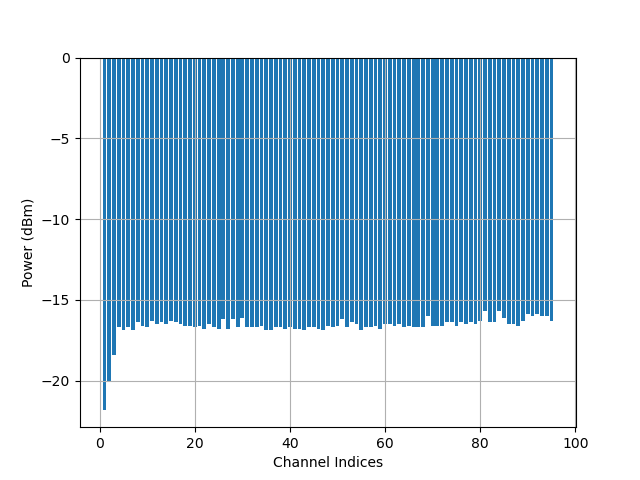
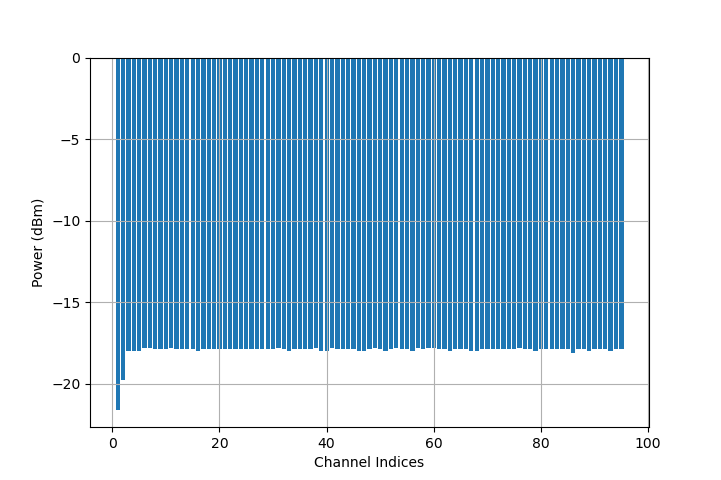
change md file

diff --git a/codes/examples.py b/codes/examples.py
@@ -13,7 +13,7 @@ def run_examples(option):
         # get from website introduction or README / 
         edfaType,gain,channelType,roadmName = "preamp","18dB","fix","rdm1-co1"
         # edfaType,gain,channelType,roadmName,subChannelName,spectrumName
-        subChannelName,spectrumName = "fully_loaded_channel_wdm","roadm_flatten_preamp_input_power_spectra"
+        subChannelName,spectrumName = "fully_loaded_channel_wdm","roadm_dut_preamp_input_power_spectra"
         plot_json_one_element(edfaType,gain,channelType,roadmName,subChannelName,spectrumName)
 
     elif option == 3:

diff --git a/README.md b/README.md
@@ -1,18 +1,33 @@
 # COSMOS EDFA Dataset
 
-COSMOS EDFA Dataset consists of the gain spectrum measurements using the built-in photodiodes (PDs) and optical channel monitors (OCMs) for 16 EDFAs within 8 commercial grade Lumentum ROADM-20 units deployed in the PAWR COSMOS testbed. The dataset includes measurements collected from 8 booster EDFAs, each with 3 gain settings, and 8 pre-amplifier EDFAs, each with 5 gain settings. For each EDFA at a given gain setting, 3,168 gain spectrum measurements are collected with a set of diverse channel loading configurations and varying input power levels. 
+COSMOS _Erbium-Doped Fiber Amplifier_ (_EDFA_) Dataset consists of the gain spectrum measurements using the built-in photodiodes (PDs) and optical channel monitors (OCMs) for 16 EDFAs within 8 commercial grade Lumentum ROADM-20 units deployed in the PAWR COSMOS testbed. The dataset includes measurements collected from 8 booster EDFAs, each with 3 gain settings, and 8 pre-amplifier EDFAs, each with 5 gain settings. For each EDFA at a given gain setting, 3,168 gain spectrum measurements are collected with a set of diverse channel loading configurations and varying input power levels. 
+
+## Terms explanations
+- Lumentum: 
+- EDFA
+- ROADM
+- WSS
+- Calient space switch
+- 
+- preamp:
+- DUT
+- MUX/DEMUX
+- C-band
+- OCM/PD
+- Wavelength channel
+- JSON
 
 # Measurement pipeline
 ![Measurement pipeline!](./misc/md_support_materials/figures/measurement_setup.png)
 The figure shows the block diagram of the block diagram of the Lumentum ROADM-20 unit and the measurement setup of a device under test (DUT) EDFA. Each ROADM unit consists of one MUX wavelength selective switch (WSS), one DEMUX  WSS, one booster EDFA, and one pre-amplifier EDFA, and is equipped with total power and channel power monitoring capabilities using the built-in PDs and OCMs with a power measurement resolution of 0.01 dB and 0.1 dB, respectively.  We use a comb source to generate a set of 95×50 GHz WDM channels in the C-band.
 
-With a DUT booster EDFA, the output of the comb source is connected to an add port of the MUX WSS, which applies the channel loading configuration, adjusts the power level in each loaded channel, and generates a flat input power spectrum at the DUT EDFA. With a DUT pre-amplifier EDFA, the output of the comb source is first connected to the pre-amplifier EDFA and DEMUX WSS of the auxiliary ROADM, whose DEMUX WSS applies the channel loading configuration, adjusts the power level in each loaded channel, and generates a flat output power spectrum that is transmitted to the input of the DUT pre-amplifier EDFA. The output of the DUT EDFA is terminated.
+With a DUT booster EDF0A, the output of the comb source is connected to an add port of the MUX WSS, which applies the channel loading configuration, adjusts the power level in each loaded channel, and generates a flat input power spectrum at the DUT EDFA. With a DUT pre-amplifier EDFA, the output of the comb source is first connected to the pre-amplifier EDFA and DEMUX WSS of the auxiliary ROADM, whose DEMUX WSS applies the channel loading configuration, adjusts the power level in each loaded channel, and generates a flat output power spectrum that is transmitted to the input of the DUT pre-amplifier EDFA. The output of the DUT EDFA is terminated.
 
 The wavelength dependent gain spectrum of each EDFA, denoted by $g(\lambda_i)$, can be characterized by its input power spectrum, $S_{\textrm{in}}(\lambda_i)$, and output power spectrum, $S_{\textrm{out}}(\lambda_i)$, i.e., $g(\lambda_i) = S_{\textrm{out}}(\lambda_i)-S_{\textrm{in}}(\lambda_i), \forall i = 1,2,\dots,95$, where $\lambda_1 = 1529.16$ nm (196.050 THz) and $\lambda_{95} = 1566.72$ nm (191.350 THz).
 
 # Channel Loading Configurations
-
-For each EDFA, $g(\lambda_i)$ can vary significantly with different channel loading configurations. However, it is impossible to measure all $2^{95}$ configurations with 95$\times${50}\thinspace{GHz} channels where each channel can be switched ON/OFF. To address this challenge, we carefully design 5 sets of diverse channel loading configurations and using four *JSON* files to store the measurement results of the collected data:
+![Channel loading!](./misc/md_support_materials/figures/channel_loading.png)
+For each EDFA, $g(\lambda_i)$ can vary significantly with different channel loading configurations. However, it is impossible to measure all $2^{95}$ configurations with 95 $\times$ 50 GHz channels where each channel can be switched ON/OFF. To address this challenge, we carefully design 5 sets of diverse channel loading configurations and using four *JSON* files to store the measurement results of the collected data:
 * **Fixed Baseline** includes the fully loaded (WDM) channel configuration ($n=95$), 4 half loaded (lower/upper/even/odd) channel configurations ($n \in \{47,48\}$), and 7 selected single/double (adjacent) channel configurations. These channel loading stored in the *fix* dataset folder together with *Fixed Goalpost* mentioned below.
 * **Fixed Goalpost** focuses on two sets of consecutive channels located in 3 channel groups (with short/medium/long wavelength), and includes 15 balanced and 12 imbalanced goalpost channel configurations with $n \in \{2,4,8,16,32\}$ and $n \in \{9,18\}$, respectively. These channel loading stored in the *fix* dataset folder together with *Fixed Baseline*.
 * **Fixed Extra** includes the complete set of 95 single and 94 double (adjacent) channel loading configurations. These channel loading stored in the *extraLow* dataset folder.
@@ -69,6 +84,9 @@ The whole dataset folder structure is shown as following:
  ┃ ┣ 📂measurement_config  
  ┃ ┃ ┣ 📜lumentum_fixed_channel_config.json  
  ┃ ┃ ┗ ...
+ ┃ ┣ 📂md_support_materials
+ ┃ ┣ 📂ML_features
+ ┃ ┗ 📂figures
  ┗ 📜README.md
 ```
 In the `code` folder, we provide examples for users to explore the collected data. 
@@ -79,13 +97,7 @@ In the `misc` folder, we put related all other related files there. For example,
 
 
 ## Json File Structure
-Each *JSON* file records one set of channel loading conditions with measurement number varies from 550 to 1100. In one *JSON* file, there are `measurement_setup` and `measurement_data`, where  `measurement_setup` structure is same for all files but `measurement_data` are slightly different for bExport a file
-
-
-
-## Booster and pre-amplifier EDFA
-
- Pre-amplifier EDFA and for fix or random channel loading. We first show the structures of `measurement_setup`, and then go through `measurement_data` the booster *JSON* files and then show the one for pre-amplifier. 
+Each *JSON* file records one set of channel loading conditions with measurement number varies from 550 to 1100. In one *JSON* file, there are `measurement_setup` and `measurement_data`, where  `measurement_setup` structure is same for all files but `measurement_data` are slightly different for booster and pre-amplifier EDFA. We first show the structures of `measurement_setup`, and then go through `measurement_data` the booster *JSON* files and then show the one for pre-amplifier. 
 ## measurement_setup
 ```json
 "measurement_setup": {
@@ -108,9 +120,7 @@ Each *JSON* file records one set of channel loading conditions with measurement 
     ]
 },
 ```
-In the measurement setup, we record the date, ROADM device name, EDFA type (booster or pre-amplifier). There are two types of synchronization and they can complement each other:
-
-- The workspace synchronization will sync all your files, folders and setc. Default attenuation in dB scale is assigned to the WSS before tings automatically. This will allow you to fetch your workspace on any other device-under-test (DUT) EDFA. We also record the wavelength channels we used. For example, from the file the first channel frequency is from `191325.0 GHz to 191375.0 GHz`, and the last would from `196025.0 GHz to 196075.0 GHz`. 
+In the measurement setup, we record the date, ROADM device name, EDFA type (booster or pre-amplifier). Default attenuation in dB scale is assigned to the WSS before device-under-test (DUT) EDFA. We also record the wavelength channels we used. For example, from the file the first channel frequency is from `191325.0 GHz to 191375.0 GHz`, and the last would from `196025.0 GHz to 196075.0 GHz`. 
 
 
 ## measurement_data
@@ -124,19 +134,78 @@ In the measurement setup, we record the date, ROADM device name, EDFA type (boos
             "repeat_index": 0, # start from 0 for booster
             "calient_input_power_comb_source": float(dBm),
             "calient_input_power_roadm_dut_edfa": float(dBm),
-            "roadm_dut_edfa_info": {...},
+            "roadm_dut_edfa_info": { 
+	            "control_mode": "constant-gain",
+	            "target_gain": 18.0,
+	            "target_gain_tilt": 0.0,
+	            "input_power": -0.2, 
+	            "output_power": 17.82,
+	            ,...,},
             "roadm_dut_line_port_info": {...},
             "roadm_dut_wss_port_info": {...},
             "roadm_dut_wss_num_active_channel": 95,
-            "roadm_dut_wss_active_channel_index": [...],
-            "roadm_dut_wss_attenuation": {...},
-            "roadm_dut_wss_input_power_spectra": {...},
-            "roadm_dut_wss_output_power_spectra": {...},
-            "roadm_dut_booster_output": {...}
+            "roadm_dut_wss_active_channel_index": 
+		        [1,2,...,95],
+            "roadm_dut_wss_attenuation": {
+	            "1":float(dB),
+	            ...,
+	            "95":float(dB)},
+		    "roadm_dut_wss_input_power_spectra":{
+			    "1":float(dBm),
+			    ...,
+			    "95":float(dBm)},
+            "roadm_dut_wss_output_power_spectra": {
+			    "1":float(dBm),
+			    ...,
+			    "95":float(dBm)},
+            "roadm_dut_booster_output": {
+			    "1":float(dBm),
+			    ...,
+			    "95":float(dBm)},
         },...,
     ]
 ```
-Better to visualize where the data is ....
+We put some of the important keys in the diagram:
+![booster_diagram!](./misc/md_support_materials/figures/booster_diagram.png)
+#### Keys directly related to wavelength gain
+- `roadm_dut_wss_num_active_channel`: total number of channels that are opened.
+- `roadm_dut_wss_active_channel_index`: a list contains integer number from 1 to 95 which indicates the open channel index. 
+- `roadm_dut_wss_attenuation`: a dictionary with keys (wavelength channel index) and values (additional attenuation). E.g., if the additional channel the 2.0 dB for channel 1, the actual attenuation applied on channel 1 is 2.0 dB + default attenuation 4.0 dB.
+- `roadm_dut_wss_output_power_spectra`: input spectrum before the DUT booster EDFA. *Note*: power spectrum will include all loaded and unloaded channels.
+- `roadm_dut_edfa_info:target_gain`: the gain setting value for DUT EDFA.
+- `roadm_dut_booster_output`: output spectrum after the DUT booster EDFA. *Note*: power spectrum will include all loaded and unloaded channels.
+
+#### Other keys in booster *JSON* file
+ - `open_channel_type`: name of different [channel loading configuration](#Channel-Loading-Configurations) for different *JSON* fieles.
+	- Fix channel loading
+		-  `fully_loaded_channel_wdm`: all 95 channels are loaded
+		- `half_loaded_channel_odd_index`: all odd index channels are loaded
+		- `half_loaded_channel_even_index`: all even index channels are loaded
+		- `half_loaded_channel_freq_low`: first 1-48 channels are loaded
+		- `half_loaded_channel_freq_high`: channel 49-95 are loaded
+		- `single_channel`: each channel from [5, 20, 35, 50, 65, 80, 95] is loaded. 
+		- `double_channel`: each adjacent double channel pairs from [(4, 5), (19,20), (34, 35), (49, 50), (64, 65), (79, 80), (94, 95)] are loaded.
+		- `goalpost_channel_balanced_freq_low_medium`: take several adjacent channels in low and medium frequency band. The # of the adjacent channels in two bands are equal (balanced). 
+		- `goalpost_channel_balanced_freq_low_high`: take several adjacent channels in low and high frequency band. The # of the adjacent channels in two bands are equal (balanced). 
+		- `goalpost_channel_balanced_freq_medium_high`: take several adjacent channels in medium and high frequency band. The # of the adjacent channels in two bands are equal (balanced). 
+		- `goalpost_channel_unbalanced_freq_low_medium`: take several adjacent channels in low and medium frequency band. The # of the adjacent channels in two bands are *NOT* equal (unbalanced). 
+		- `goalpost_channel_unbalanced_freq_low_high`: take several adjacent channels in low and high frequency band. The # of the adjacent channels in two bands are *NOT* equal (unbalanced). 
+		- `goalpost_channel_unbalanced_freq_medium_high`: take several adjacent channels in medium and high frequency band. The # of the adjacent channels in two bands are *NOT* equal (unbalanced). 
+	- extraLow channel loading
+		- `single_channel`: all single channel 
+		- `double_channel`: all double adjacent channel pairs
+	- random channel loading
+		- `random_channel`: random channel # from 1 to 49
+	- extraRandom channel loading
+		- `random_channel`: random channel # from 1 to 95
+- `attenuation_setting`: the additional attenuation applied to all loaded channels before the spectrum flatten function. *Notes*:  spectrum flatten function measure the input spectrum before the DUT EDFA and make the spectrum flat (within 0.1 dB various for most measurements). 
+- `repeat_index`: start from 0 for booster. If it is greater than 0, the corresponding measurement repeat the measurement with the exact same setup as previous measurement of `repeat_index` -1.
+- `calient_input_power_comb_source`: for internal use. The input power into calient space switch from comb source.
+- `calient_input_power_roadm_dut_edfa`: for internal use. The input power into calient space switch from DUT EDFA.
+- `roadm_dut_edfa_info`: contains all information related to DUT EDFA. E.g., total input/output power, gain control mode, gain setings, etc.
+- `roadm_dut_line_port_info`: record the ROADM line in and line out total power and actual output VOA attenuation.
+- `roadm_dut_wss_port_info`: record which WSS port is connected and the total input power into the WSS port.
+- `roadm_dut_wss_input_power_spectra`: the input power spectrum  of DUT WSS.
 
 ### Preamp EDFA
 ```json
@@ -144,30 +213,55 @@ Better to visualize where the data is ....
         {
             "open_channel_type": "fully_loaded_channel_wdm",
             "attenuation_setting": -2(dBm),
-            "repeat_index": 1, # start from 1 for booster
+            "repeat_index": 1, # start from 1 for preamp
             "calient_input_power_comb_source": float(dBm),
             "calient_input_power_flatten_roadm_output": float(dBm),
             "roadm_flatten_preamp_info": {...},
             "roadm_flatten_wss_num_active_channel": 95,
             "roadm_flatten_wss_active_channel_index": [...],
             "roadm_flatten_line_port_info":  {...},
-            "roadm_flatten_wss_attenuation": {...},
+            "roadm_flatten_wss_attenuation": {
+	            "1":float(dB),
+	            ...,
+	            "95":float(dB)},
             "roadm_flatten_wss_input_power_spectra":  {...},
             "roadm_flatten_preamp_input_power_spectra":  {...},
-            "roadm_dut_preamp_info":  {...},
+            "roadm_dut_preamp_info": { 
+	            "control_mode": "constant-gain",
+	            "target_gain": 18.0,
+	            "target_gain_tilt": 0.0,
+	            "input_power": -0.2, 
+	            "output_power": 17.82,
+	            ,...,},
             "roadm_dut_line_port_info":  {...},
-            "roadm_dut_preamp_input_power_spectra":  {...},
-            "roadm_dut_wss_input_power_spectra":  {...}
-        },...
+            "roadm_dut_preamp_input_power_spectra": {
+			    "1":float(dBm),
+			    ...,
+			    "95":float(dBm)},
+            "roadm_dut_wss_input_power_spectra": {
+			    "1":float(dBm),
+			    ...,
+			    "95":float(dBm)},,...
       ]
 ```
-Better to visualize where the data is ....
+We put some of the important keys in the diagram:
+![preamp_diagram!](./misc/md_support_materials/figures/preamp_diagram.png)
+#### Keys directly related to wavelength gain
+- `roadm_flatten_wss_active_channel_index`: a list contains integer number from 1 to 95 which indicates the open channel index. 
+- `roadm_flatten_wss_attenuation`: a dictionary with keys (wavelength channel index) and values (additional attenuation). E.g., if the additional channel the 2.0 dB for channel 1, the actual attenuation applied on channel 1 is 2.0 dB + default attenuation 4.0 dB.
+- `roadm_dut_preamp_input_power_spectra`: input spectrum before the DUT booster EDFA.
+- `roadm_dut_preamp_info:target_gain`: the gain setting value for DUT EDFA.
+- `roadm_dut_wss_input_power_spectra`: output spectrum after the DUT booster EDFA.
 
-### Each component in measurement_data [link to another md file]
+#### Other keys in preamp *JSON* file
+
+- All the keys in preamp *JSON* file is similar to [booster *JSON* file](Other-keys-in-booster-*JSON*-file)
+
+
 
 # How to use the dataset
 
-some introduction here.
+We provide some example python codes to help users to better understand the dataset and plot the EDFA gain spectrum.
 
 ## Example codes
 
@@ -184,16 +278,16 @@ The example code can be found at `./codes/examples.py` . It supports three diffe
     
 2. Print/plot arbitrary Json data 
 -- Function explanation: plot any spectrum collected from any json file.  
--- How to run the code: `run_examples(option=2)` with parameters selected in the codes. Specifically, 
+-- How to run the code: `run_examples(option=2)` with parameters selected in the codes. Specifically, `subChannelName` can be arbitrary value found from [`open_channel_type`](Other-keys-in-booster-*JSON*-file) and `spectrumName` can be arbitrary [*spectrum* element](measurement_data)
 
  3. Convert Json raw data to ML readable data file
 -- Function explanation: convert selected json files into training/testing/augment dataset in *CSV* format. It consists of the EDFA gain setting, total input/output power, input power spectrum,  channel loading configuration, and the EDFA gain spectrum. 
 -- How to run the code: `run_examples(option=3)` with parameters selected in the codes.
 
 ### Related Parameters
-**edfaTypes**: booster pre-amplifier EDFA
+**edfaTypes**: booster or pre-amplifier EDFA
 **gainList**: different gain settings
-**channelTypes**: different channel loading condition for each EDFA
+**channelTypes**: different channel loading conditions for each EDFA
 **fileList**: 8 commercial grade Lumentum ROADM-20 units deployed in the PAWR COSMOS testbed
 
 ```python
@@ -203,8 +297,8 @@ gainLists = ["15dB","18dB","21dB","24dB","27dB"] # for preamp
 channelTypes = ['fix', 'random', 'extraRandom', 'extraLow']
 roadmNames = ['rdm1-co1', 'rdm2-co1', 'rdm3-co1', 'rdm4-co1',
 			'rdm5-co1', 'rdm6-co1', 'rdm1-lg1', 'rdm2-lg1']
-subChannelName # please refer to 'Json File Structure' part
-spectrumName # please refer to 'Json File Structure' part
+subChannelName # please refer to 'open_channel_type' part
+spectrumName # please refer to 'measurement_data' part
 ```
 
 # Measurement result examples
@@ -215,8 +309,9 @@ Randomly loaded channel gain plot generated by `example.py` with `option=1` and 
 
 ![Measurement result2!](./misc/md_support_materials/figures/generated_figures/random_gain_example.png)
 
-Single flatten ROADM pre-amplifier input spectrum bar plot generated by `example.py` with `option=2` and parameters `subChannelName,spectrumName = "fully_loaded_channel_wdm","roadm_flatten_preamp_input_power_spectra"`
+Single flatten ROADM pre-amplifier input spectrum bar plot generated by `example.py` with `option=2` and parameters `subChannelName,spectrumName = "fully_loaded_channel_wdm","roadm_dut_preamp_input_power_spectra"`
 
 ![Measurement result3!](./misc/md_support_materials/figures/generated_figures/spectrum_example.png)
 
 # Related papers
+[1] TO BE ADDED
